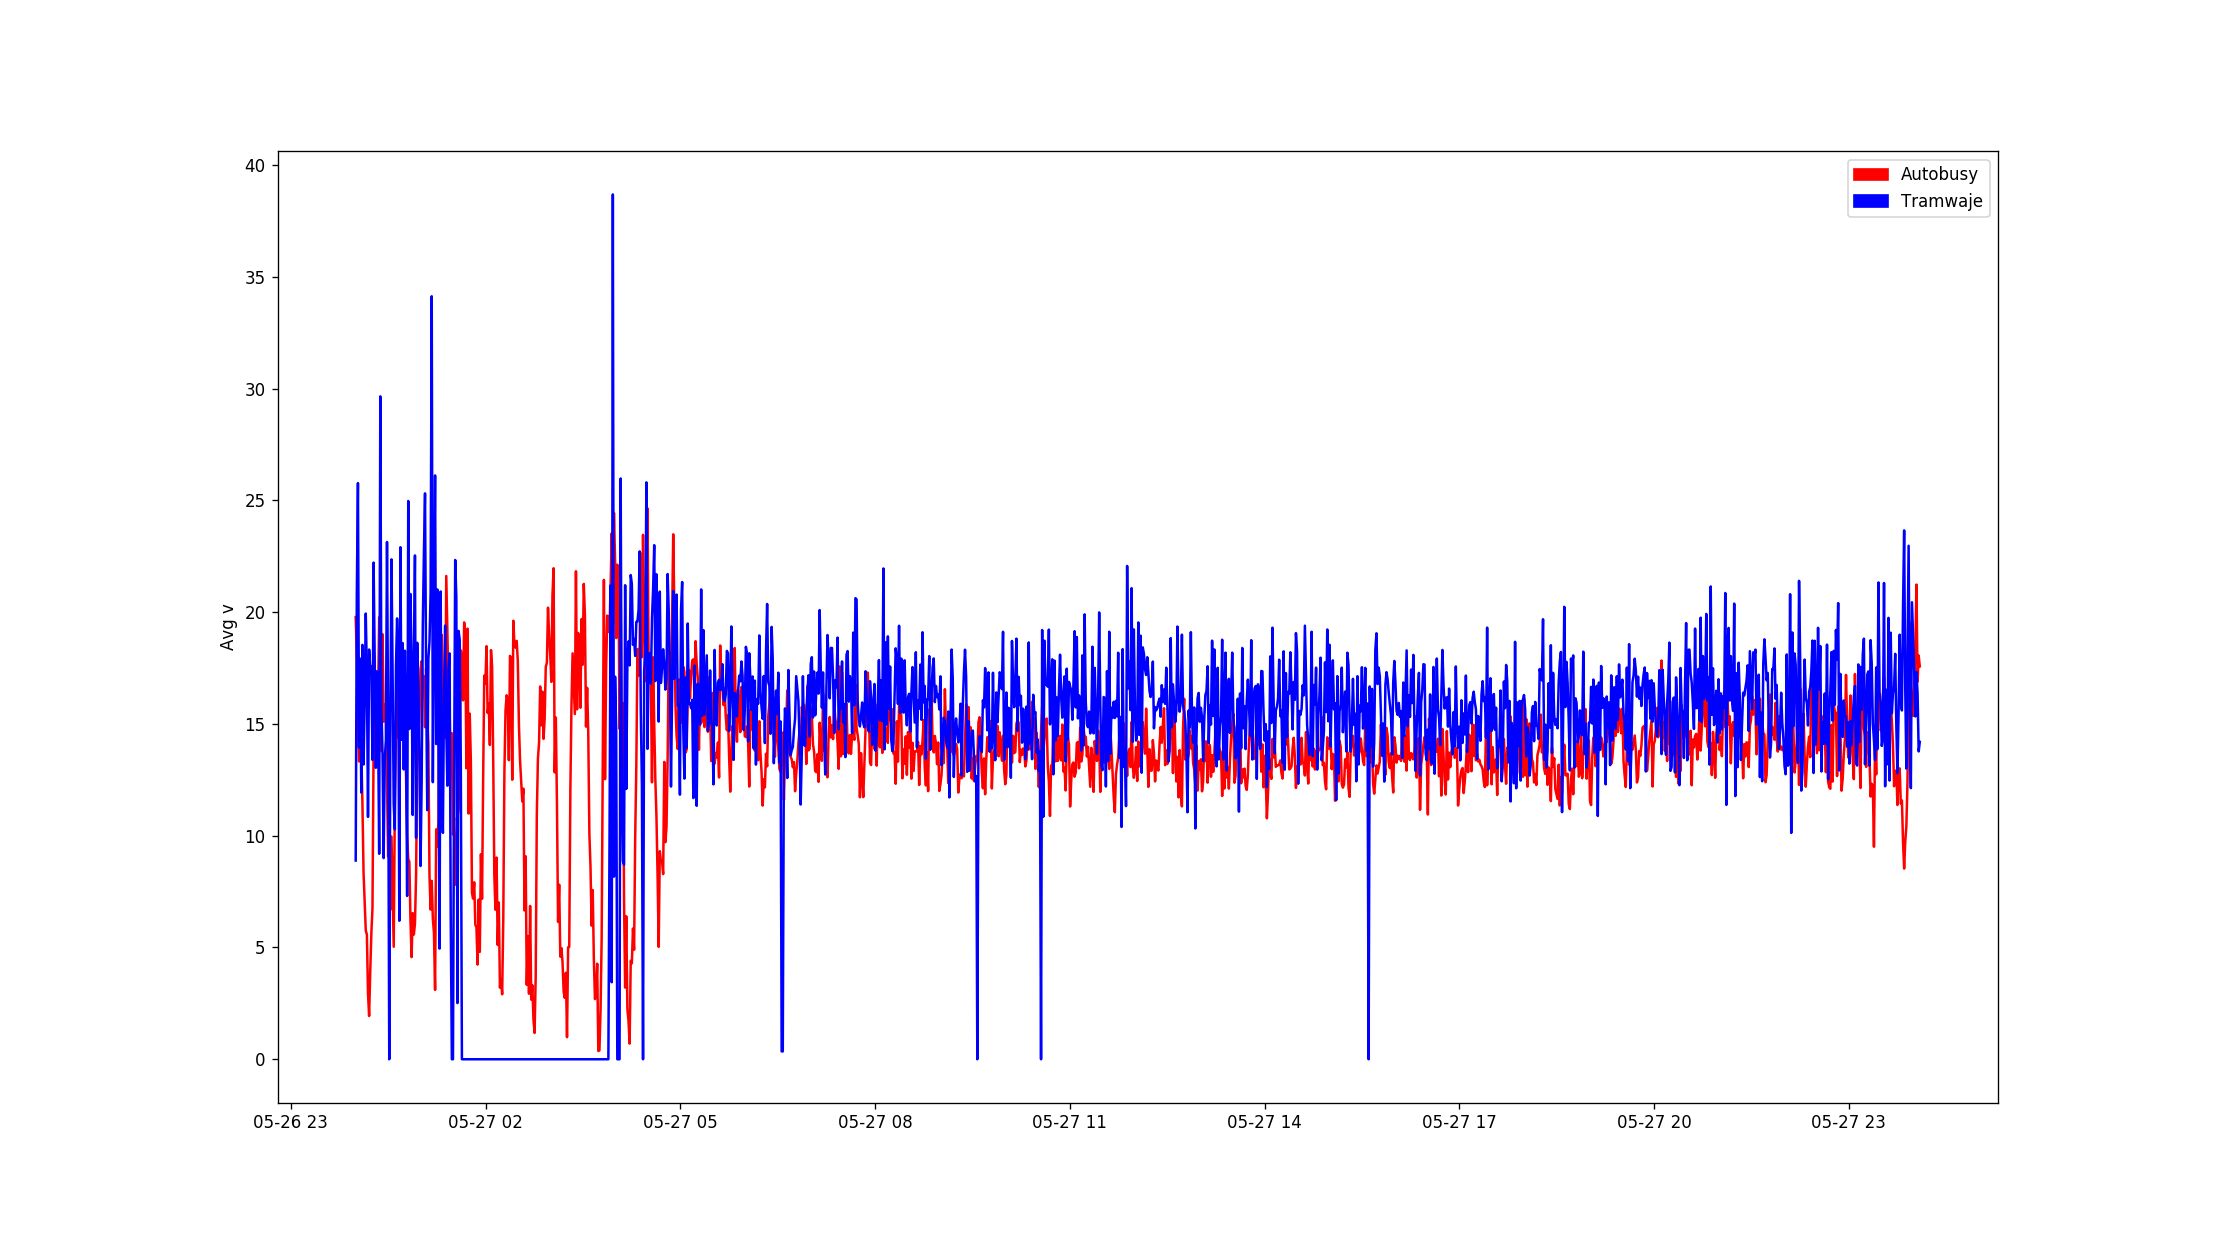
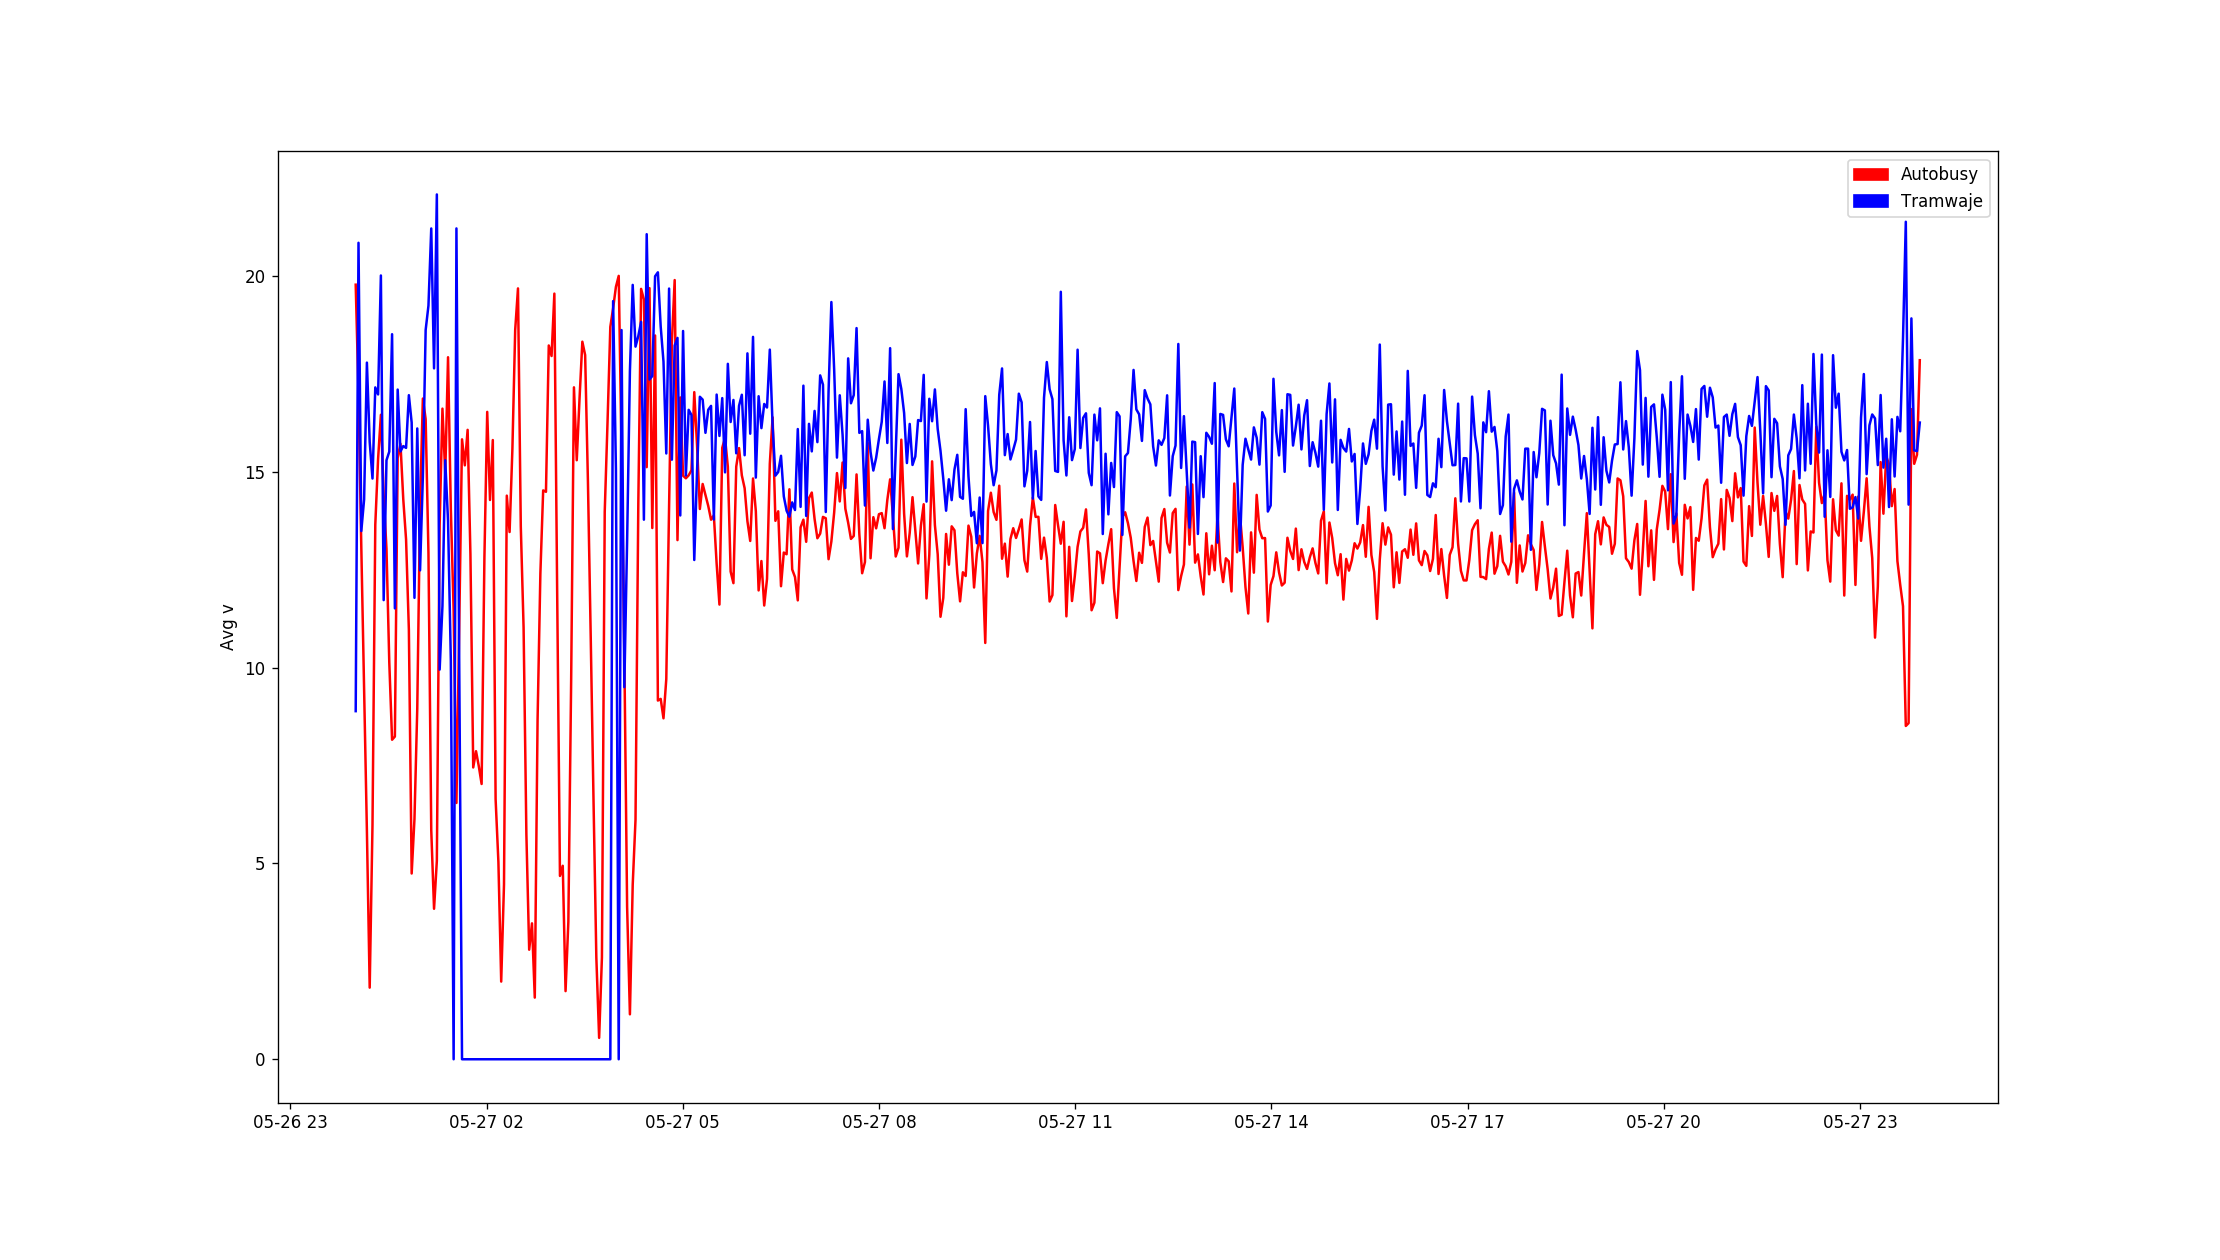
Create others plots

diff --git a/generatePlots.py b/generatePlots.py
@@ -7,29 +7,53 @@ Created on Sun May 28 19:30:48 2017
 
 from script import *
 
-conn = sqlite3.connect("autobusySobota")
-conn2 = sqlite3.connect("tramwajeSobota")
+def generatePartOne():
+    conn = sqlite3.connect("autobusySobota")
+    conn2 = sqlite3.connect("tramwajeSobota")
+    
+    date = datetime(2017, 5, 27)
+    calculateAvg(conn, conn2, date, 154, allPoints, allPoints, "Autobusy", "Tramwaje", "plots/2_1_1a")
+    calculateAvg(conn, conn2, date, 154, myCentrum, myCentrum, "Autobusy", "Tramwaje", "plots/2_1_1b")
+    calculateAvg(conn, conn2, date, 154, notMyCentrum, notMyCentrum, "Autobusy", "Tramwaje", "plots/2_1_1c")
 
-date = datetime(2017, 5, 27)
-calculateAvg(conn, conn2, date, 62, allPoints, allPoints, "Autobusy", "Tramwaje", "plots/2_1_1a")
-calculateAvg(conn, conn2, date, 62, myCentrum, myCentrum, "Autobusy", "Tramwaje", "plots/2_1_1b")
-calculateAvg(conn, conn2, date, 62, notMyCentrum, notMyCentrum, "Autobusy", "Tramwaje", "plots/2_1_1c")
-
-calculateAvg(conn, conn2, date, 62, wola, wola, "Autobusy", "Tramwaje", "plots/2_1_2a")
-calculateAvg(conn, conn2, date, 62, mokotow, mokotow, "Autobusy", "Tramwaje", "plots/2_1_2b")
-calculateAvg(conn, conn2, date, 62, ursynow, ursynow, "Autobusy", "Tramwaje", "plots/2_1_2c")
-calculateAvg(conn, conn2, date, 62, bialoleka, bialoleka, "Autobusy", "Tramwaje", "plots/2_1_2d")
-calculateAvg4(conn, date, 62, wola, mokotow, ursynow, bialoleka, "wola", "mokotow", "ursynow", "bialoleka", "plots/2_1_2e")
-calculateAvg4(conn2, date, 62, wola, mokotow, ursynow, bialoleka, "wola", "mokotow", "ursynow", "bialoleka", "plots/2_1_2f")
-
-
-calculateNumber(conn, conn2, date, 31, allPoints, allPoints, "Autobusy", "Tramwaje", "plots/2_2_1a")
-calculateNumber(conn, conn2, date, 31, myCentrum, myCentrum, "Autobusy", "Tramwaje", "plots/2_2_1b")
-calculateNumber(conn, conn2, date, 31, notMyCentrum, notMyCentrum, "Autobusy", "Tramwaje", "plots/2_2_1c")
-
-calculateNumber(conn, conn2, date, 31, wola, wola, "Autobusy", "Tramwaje", "plots/2_2_2a")
-calculateNumber(conn, conn2, date, 31, mokotow, mokotow, "Autobusy", "Tramwaje", "plots/2_2_2b")
-calculateNumber(conn, conn2, date, 31, ursynow, ursynow, "Autobusy", "Tramwaje", "plots/2_2_2c")
-calculateNumber(conn, conn2, date, 31, bialoleka, bialoleka, "Autobusy", "Tramwaje", "plots/2_2_2d")
-calculateNumber4(conn, date, 31, wola, mokotow, ursynow, bialoleka, "wola", "mokotow", "ursynow", "bialoleka", "plots/2_2_2e")
-calculateNumber4(conn2, date, 31, wola, mokotow, ursynow, bialoleka, "wola", "mokotow", "ursynow", "bialoleka", "plots/2_2_2f")
+    calculateAvg(conn, conn2, date, 154, wola, wola, "Autobusy", "Tramwaje", "plots/2_1_2a")
+    calculateAvg(conn, conn2, date, 154, mokotow, mokotow, "Autobusy", "Tramwaje", "plots/2_1_2b")
+    calculateAvg(conn, conn2, date, 154, ursynow, ursynow, "Autobusy", "Tramwaje", "plots/2_1_2c")
+    calculateAvg(conn, conn2, date, 154, bialoleka, bialoleka, "Autobusy", "Tramwaje", "plots/2_1_2d")
+    calculateAvg4(conn, date, 154, wola, mokotow, ursynow, bialoleka, "wola", "mokotow", "ursynow", "bialoleka", "plots/2_1_2e")
+    calculateAvg4(conn2, date, 154, wola, mokotow, ursynow, bialoleka, "wola", "mokotow", "ursynow", "bialoleka", "plots/2_1_2f")
+    
+    
+    #calculateNumber(conn, conn2, date, 31, allPoints, allPoints, "Autobusy", "Tramwaje", "plots/2_2_1a")
+    #calculateNumber(conn, conn2, date, 31, myCentrum, myCentrum, "Autobusy", "Tramwaje", "plots/2_2_1b")
+    #calculateNumber(conn, conn2, date, 31, notMyCentrum, notMyCentrum, "Autobusy", "Tramwaje", "plots/2_2_1c")
+    
+    #calculateNumber(conn, conn2, date, 31, wola, wola, "Autobusy", "Tramwaje", "plots/2_2_2a")
+    #calculateNumber(conn, conn2, date, 31, mokotow, mokotow, "Autobusy", "Tramwaje", "plots/2_2_2b")
+    #calculateNumber(conn, conn2, date, 31, ursynow, ursynow, "Autobusy", "Tramwaje", "plots/2_2_2c")
+    #calculateNumber(conn, conn2, date, 31, bialoleka, bialoleka, "Autobusy", "Tramwaje", "plots/2_2_2d")
+    #calculateNumber4(conn, date, 31, wola, mokotow, ursynow, bialoleka, "wola", "mokotow", "ursynow", "bialoleka", "plots/2_2_2e")
+    #calculateNumber4(conn2, date, 31, wola, mokotow, ursynow, bialoleka, "wola", "mokotow", "ursynow", "bialoleka", "plots/2_2_2f")
+    
+    
+def generatePartTwo():
+    date = datetime(2017, 5, 29)
+    conn = sqlite3.connect("autobusyPoniedzialek")
+    conn2 = sqlite3.connect("tramwajePoniedzialek")
+    conn3 = sqlite3.connect("autobusySobota")
+    conn4 = sqlite3.connect("tramwajeSobota")
+    
+    calculateAvg(conn, conn2, date, 154, allPoints, allPoints, "Autobusy", "Tramwaje", "plots/3_1a")
+    calculateAvg(conn, conn2, date, 154, myCentrum, myCentrum, "Autobusy", "Tramwaje", "plots/3_1b")
+    calculateAvg(conn, conn2, date, 154, notMyCentrum, notMyCentrum, "Autobusy", "Tramwaje", "plots/3_1c")
+    
+    calculateAvg(conn, conn3, date, 154, allPoints, allPoints,  "Poniedziałek", "Sobota", "plots/3_2_1a")
+    calculateAvg(conn, conn3, date, 154, myCentrum, myCentrum,  "Poniedziałek", "Sobota", "plots/3_2_1b")
+    calculateAvg(conn, conn3, date, 154, notMyCentrum, notMyCentrum,  "Poniedziałek", "Sobota", "plots/3_2_1c")
+    
+    calculateAvg(conn2, conn4, date, 154, allPoints, allPoints,  "Poniedziałek", "Sobota", "plots/3_2_2a")
+    calculateAvg(conn2, conn4, date, 154, myCentrum, myCentrum,  "Poniedziałek", "Sobota", "plots/3_2_2b")
+    calculateAvg(conn2, conn4, date, 154, notMyCentrum, notMyCentrum,  "Poniedziałek", "Sobota", "plots/3_2_2c")
+    
+    
+generatePartOne()

diff --git a/script.py b/script.py
@@ -95,7 +95,7 @@ def calculateScoresMinAvgMax(conn, fun):
             prevList = data['result']
         else:
             times += 1
-            if(times % 2 != 0):
+            if(times % 5 != 0):
                 continue
             try:
                 currList = data['result']
@@ -159,7 +159,7 @@ def calculateLineAvgMax(conn, fun):
                 lineAvgMax(prevList, currList, fun, dictionary)
                 prevList = currList
             except:
-                
+                2
             
     return dictionary
             
@@ -173,7 +173,8 @@ def calculateLines(conn, conn2, fun, fun2):
     'Max' :  pd.Series([el.maxV for el in values], lines)}
     df1 = pd.DataFrame(ds1)
     
-    print(df1.sort(['Avg'], ascending=[0]))
+    print(df1.sort_values(by='Avg', ascending=False))
+    
     
     return 0
 
@@ -227,15 +228,18 @@ def calculateNumber(conn, conn2, startDate, interval, fun, fun2, lred, lblue, fi
     return 0
     
 def clearScores(scores1, scores2, listTime):
-    if(len(scores1) == len(scores2)):
-        for i in range(len(scores1)):
-            if(i >= len(scores1)):
-                break
-            if(scores1[i] < 0 or scores2[i] < 0):
-                del scores1[i]
-                del scores2[i]
-                del listTime[i]
-                i -= 1
+    if(len(scores1) != len(scores2)):
+        while(len(scores2) != len(scores1)):
+            scores2.pop()
+        
+    for i in range(len(scores1)):
+        if(i >= len(scores1)):
+            break
+        if(scores1[i] < 0 or scores2[i] < 0):
+            del scores1[i]
+            del scores2[i]
+            del listTime[i]
+            i -= 1
                 
 def calculateAvg4(conn, startDate, interval, fun, fun2, fun3, fun4, lred, lblue, lyellow, lgreen, file):
     scores = calculateScoresMinAvgMax(conn, fun)
@@ -316,10 +320,6 @@ def createTable():
     conn = sqlite3.connect("autobusySobota")
     conn2 = sqlite3.connect("tramwajeSobota")
     calculateLines(conn,conn2, allPoints, allPoints)
-
-
-
-
 
 
 
